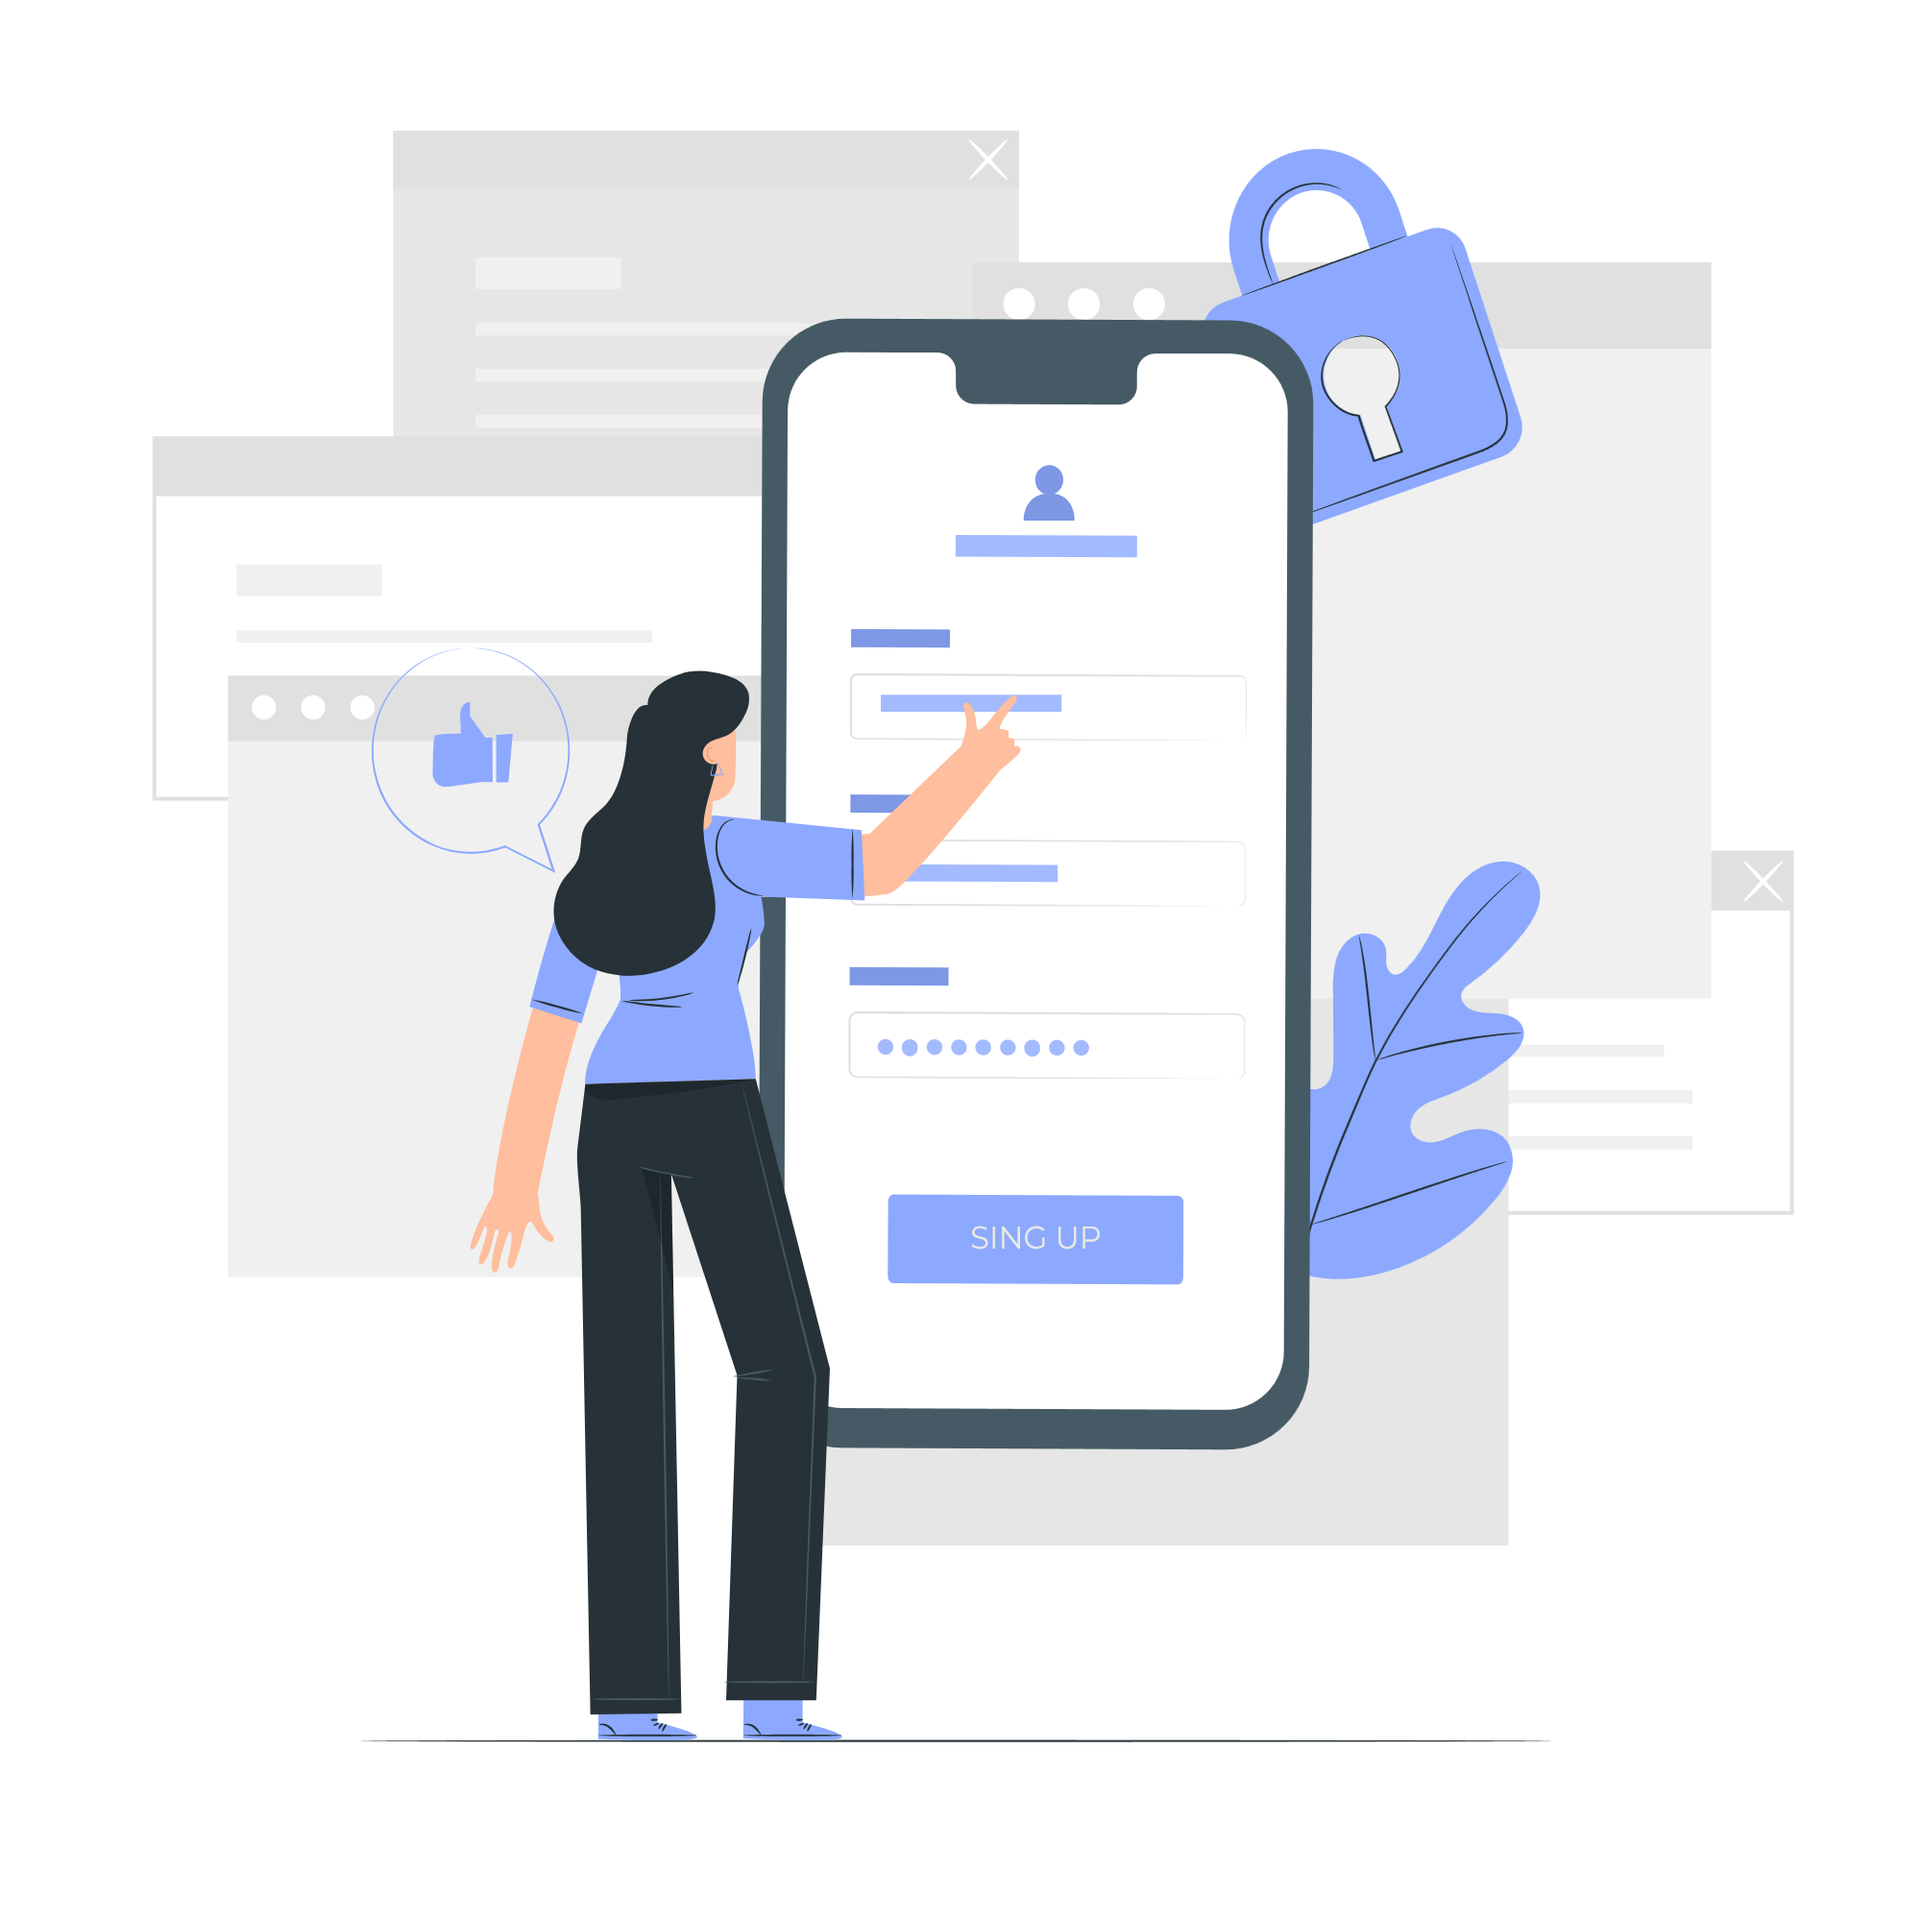
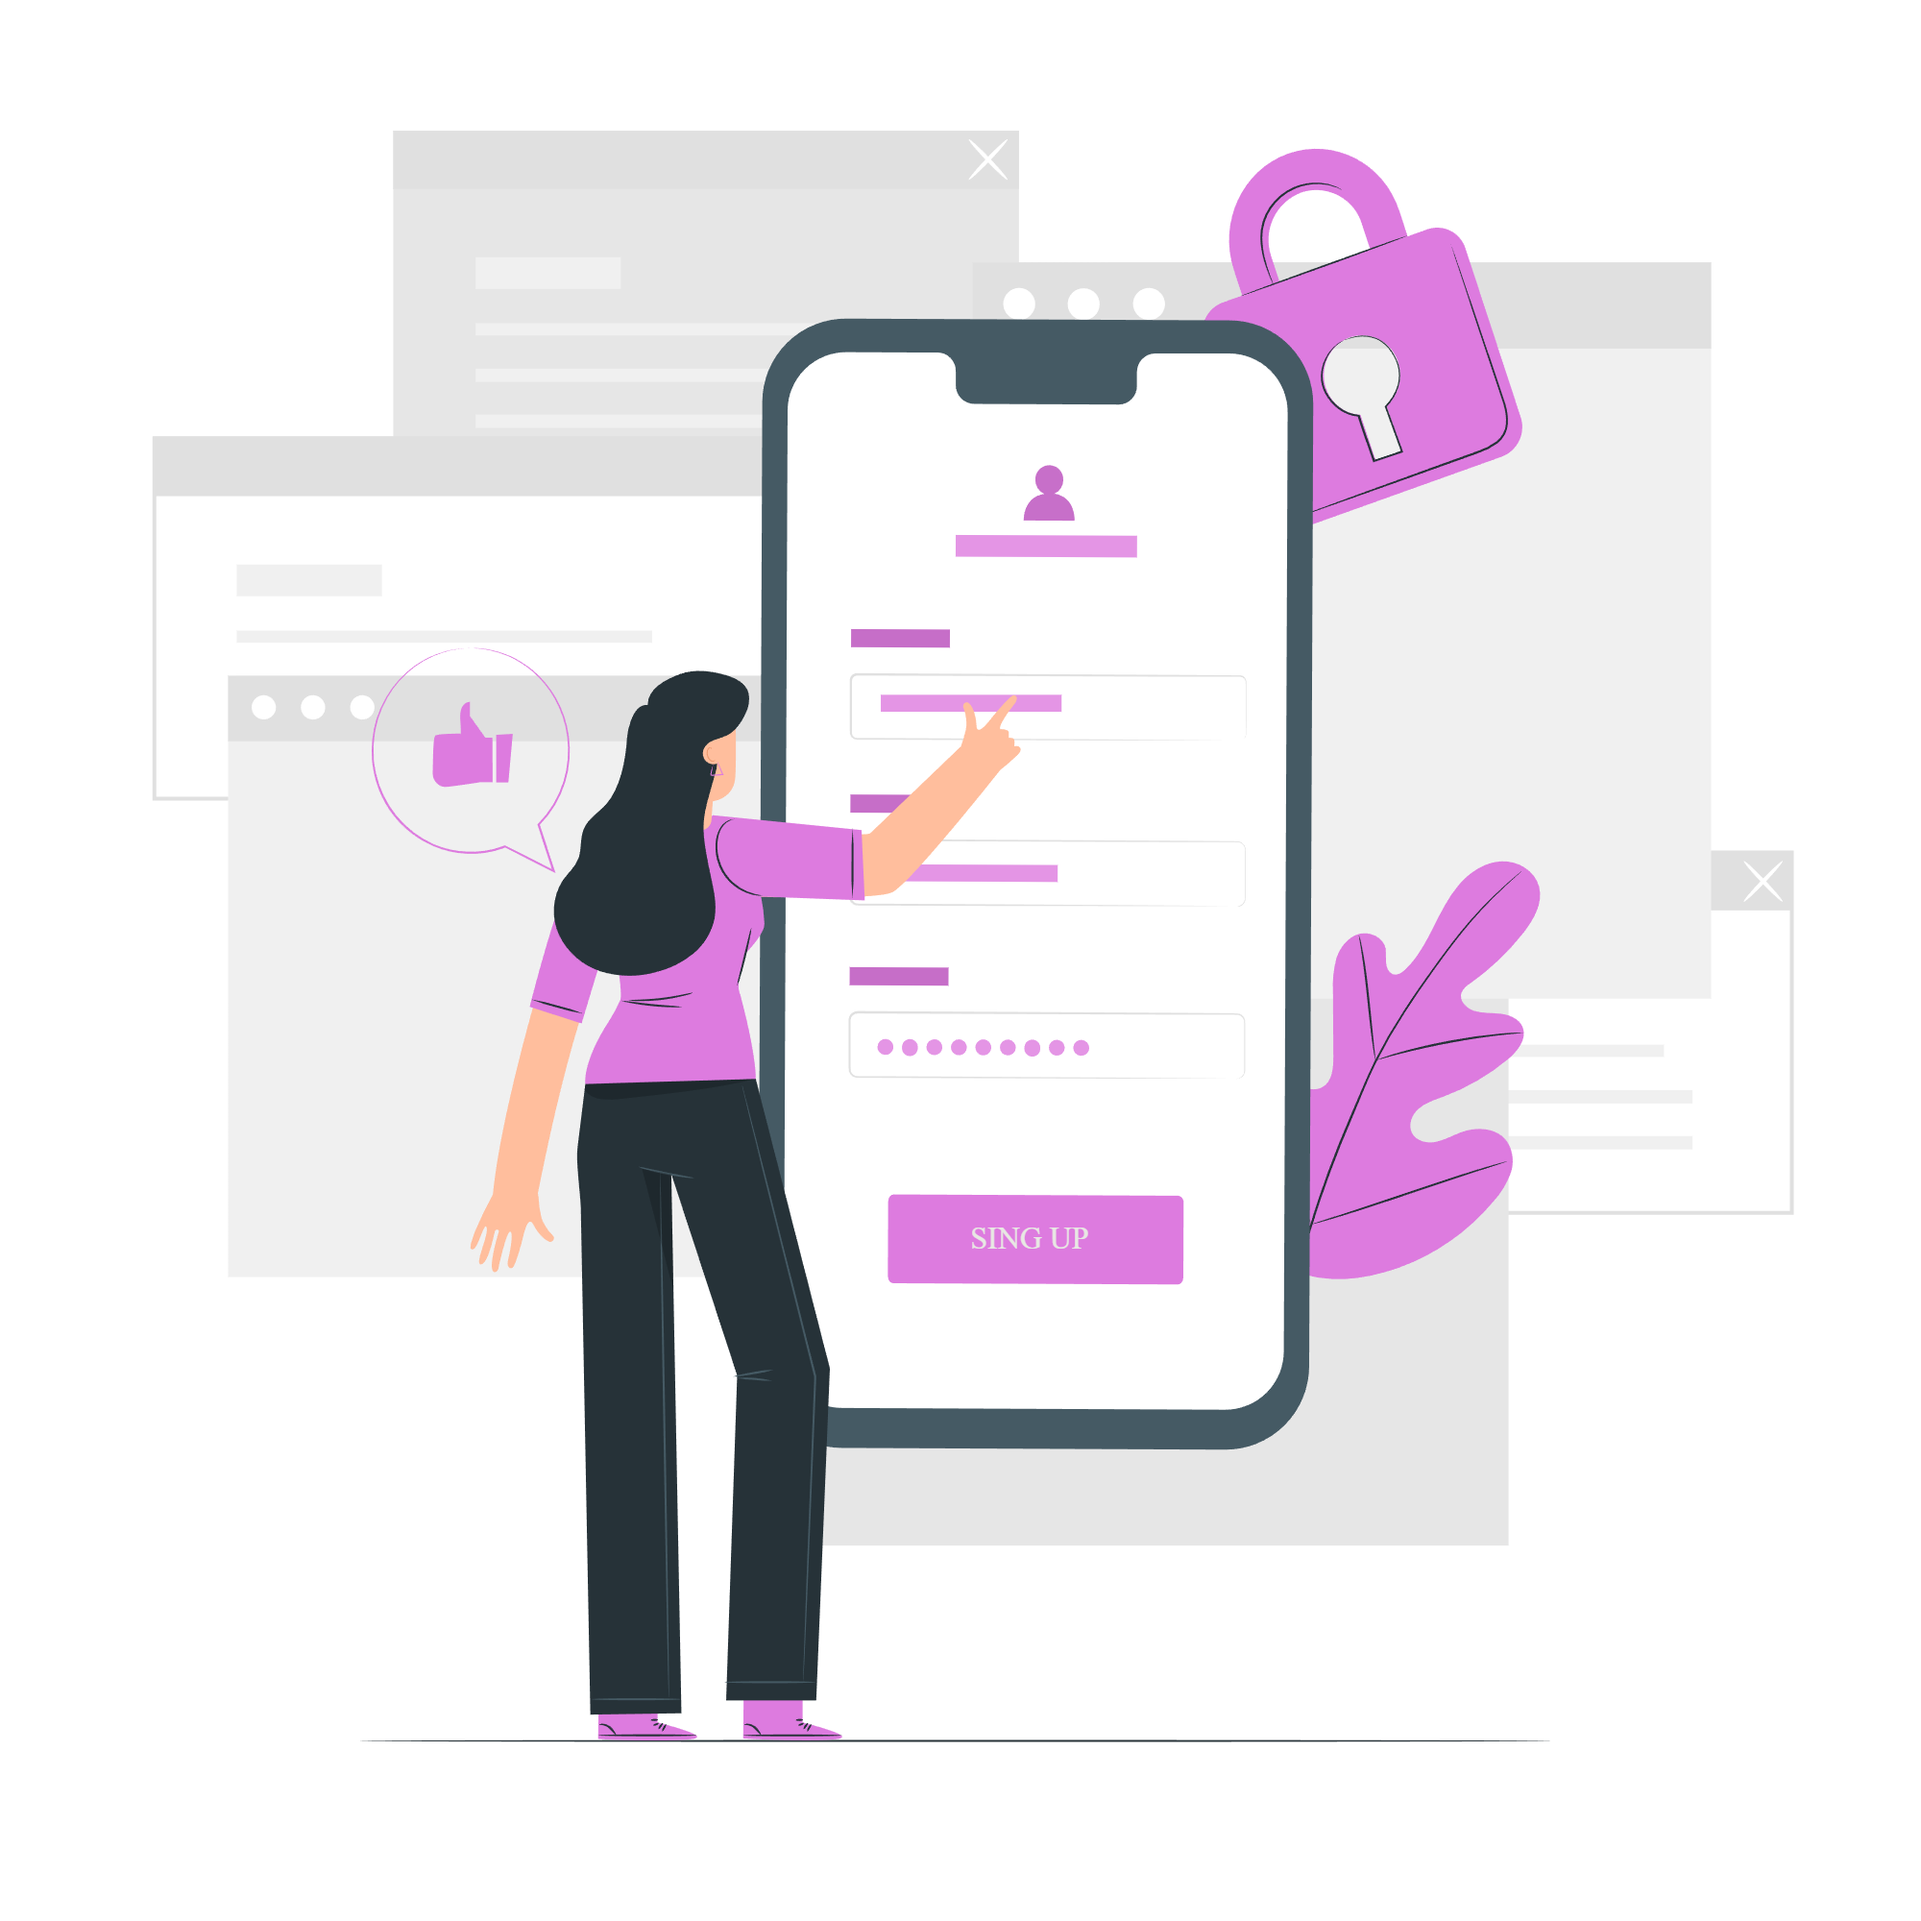
All features done

diff --git a/lib/features/notes/presentation/views/new_note_screen.dart b/lib/features/notes/presentation/views/new_note_screen.dart
@@ -65,7 +65,7 @@ class _NewNoteScreenState extends State<NewNoteScreen> {
       if (available) {
         setState(() => _isListening = true);
         _speech.listen(
-          listenFor: const Duration(seconds: 15),
+          listenFor: const Duration(minutes: 2),
           onResult: (result) {
             setState(() {
               _text = result.recognizedWords;

diff --git a/lib/features/auth/presentation/views/widgets/sign_up_form.dart b/lib/features/auth/presentation/views/widgets/sign_up_form.dart
@@ -53,7 +53,6 @@ class _SignUpFormState extends State<SignUpForm> {
             success: false,
           );
         } else if (state is Authenticated) {
-          context.pop();
           customSnackBar(
             context: context,
             message: 'Account created successfully!',
